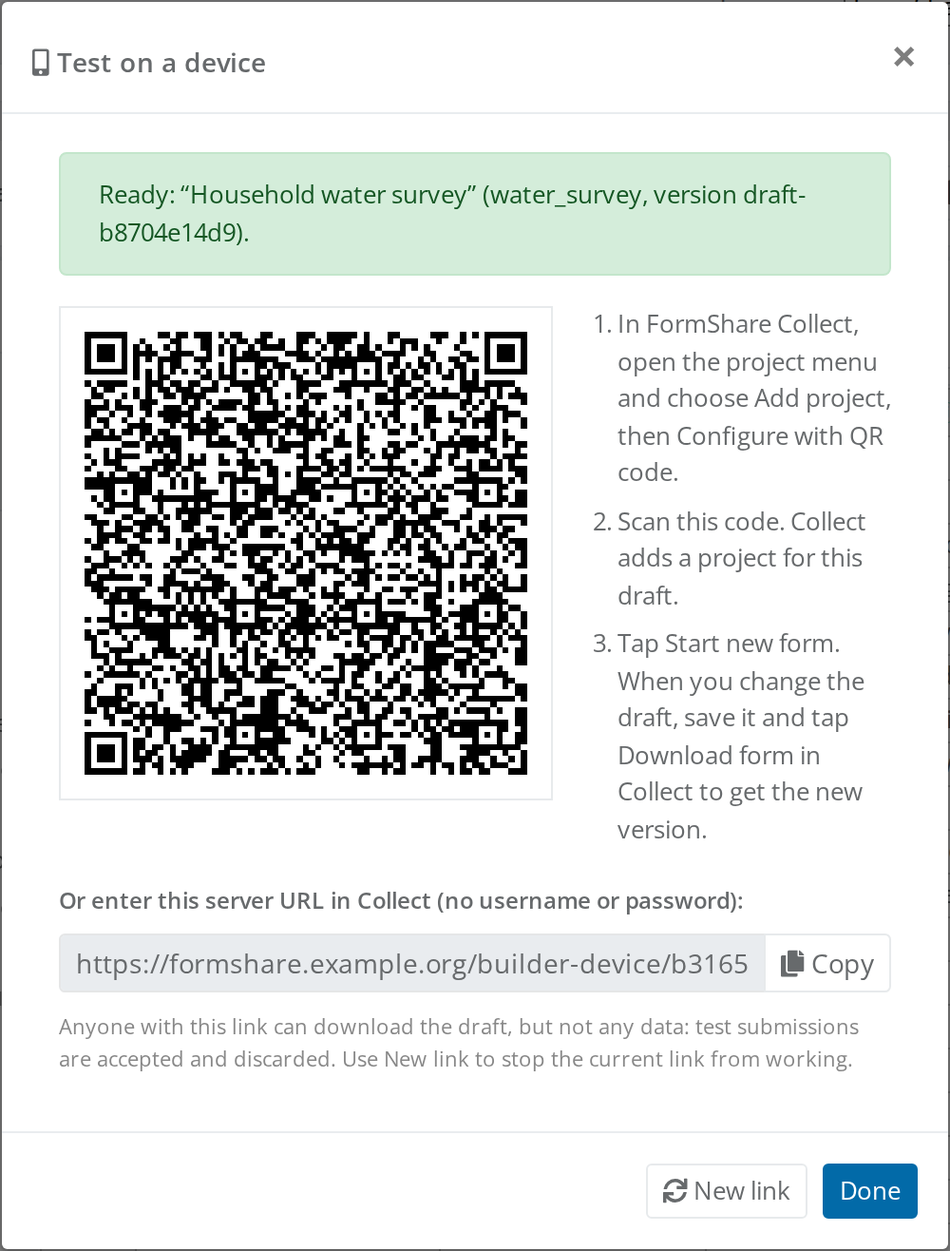
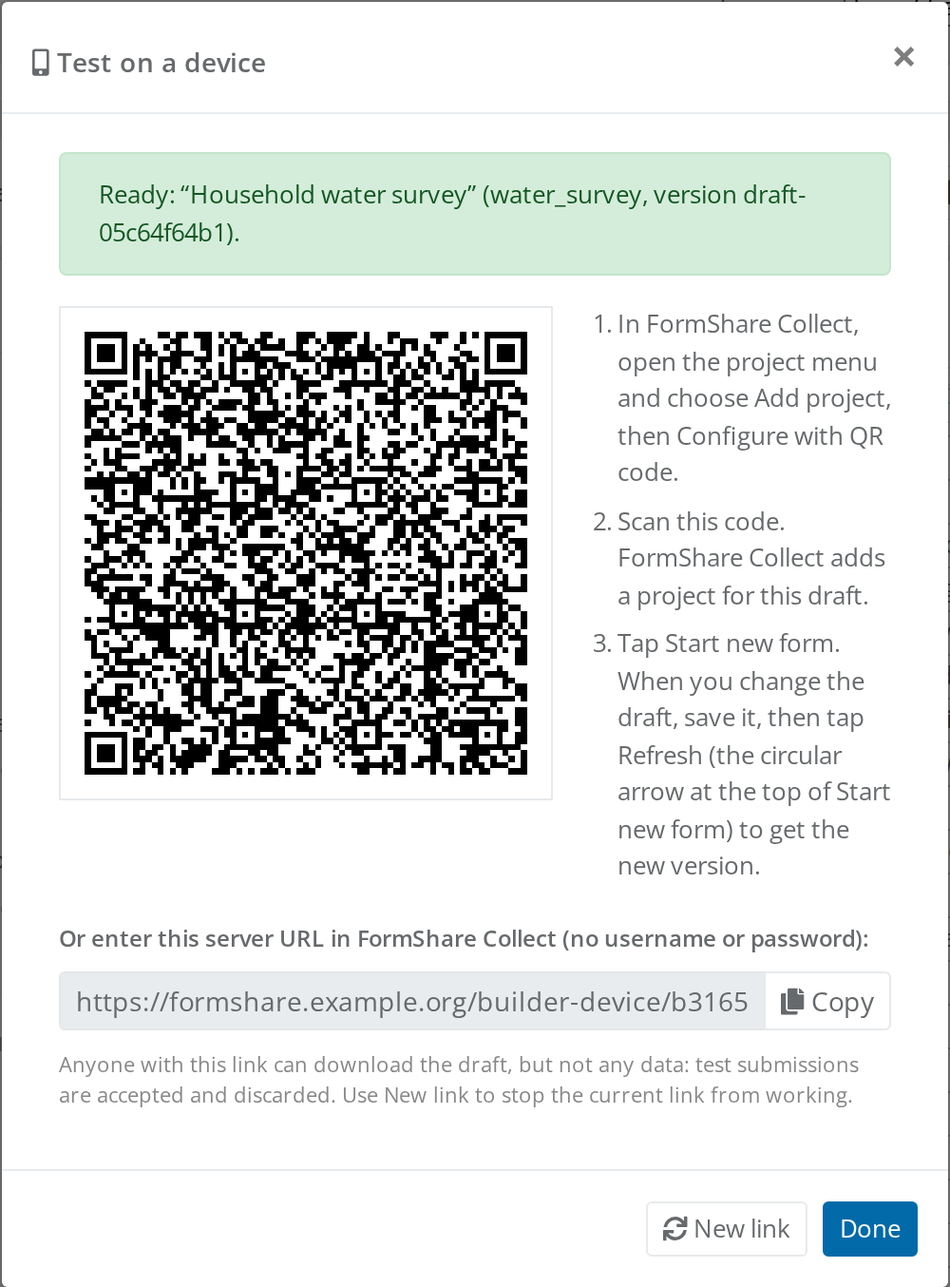
Form Builder: describe the fixed behaviour
The warnings that described bugs are gone, replaced by what Form Builder
does now: a required condition kept in the logic dialog, an imported file's
language columns editable in the grid, Import from a published form working
from the page header, a failed save stopping a test, a publish or a copy,
Build... only where AI is set up, times in FormShare's time zone, Refresh on
Start new form for a new version, and drafts publishing without the form
engine. Seven screenshots retaken to match.

diff --git a/docs/additional-functionality/form-builder/your-forms.md b/docs/additional-functionality/form-builder/your-forms.md
@@ -9,7 +9,7 @@ description: >-
 
 Form Builder keeps each form you build as a **draft**. Its first page lists your drafts under **Your forms**, says where each one is published, and starts new ones.
 
-<figure><img src="../../.gitbook/assets/fb-dashboard-drafts.png" alt="The Form Builder page with three drafts under Your forms: Water point inspection, never published; and two drafts named Household water survey, one published to Rural water monitoring as water_survey_v2 and the other as water_survey, each with Open, Rename, Save as and Delete. Import .xlsx and New form are at the top right."><figcaption><p>The draft saved last is at the top. Each row says where the draft is published.</p></figcaption></figure>
+<figure><img src="../../.gitbook/assets/fb-dashboard-drafts.png" alt="The Form Builder page with three drafts under Your forms: Water point inspection, never published; and two drafts named Household water survey, one published to Rural water monitoring as water_survey_v2 and the other as water_survey, each with Open, Rename, Save as and Delete. Import from a published form, Import .xlsx and New form are at the top right."><figcaption><p>The draft saved last is at the top. Each row says where the draft is published.</p></figcaption></figure>
 
 ## Drafts and forms
 
@@ -30,11 +30,11 @@ Click **Form Builder** in FormShare's left-hand menu. The page lists your drafts
 | Part | What it shows |
 | --- | --- |
 | The name | The draft's name. Click it, or **Open**, to work on the draft in the [editor](the-editor.md). |
-| Last edit | When the draft was last saved or renamed, in UTC. |
+| Last edit | When the draft was last saved or renamed, in the time zone FormShare shows its own times in. |
 | Publication | Where the draft is published. See below. |
 | Buttons | **Open**, **Rename**, **Save as** and **Delete**. |
 
-When you have no drafts, the page offers **Build from scratch** and **Import an existing .xlsx file** in place of the list, and **Import from a published form**, whose list of forms stays empty: see "[From a form already in a project](#from-a-form-already-in-a-project)".
+At the top of the page are **Import from a published form**, **Import .xlsx** and **New form**. When you have no drafts, the page offers **Build from scratch**, **Import an existing .xlsx file** and **Import from a published form** in place of the list.
 
 ### Where a draft is published
 
@@ -44,7 +44,7 @@ When you have no drafts, the page offers **Build from scratch** and **Import an 
 | **Published**, then the project, the form ID and the version | The draft was published once. The project and form ID link to the form in FormShare. |
 | **Published** with a number | The draft was published as that many forms. Click it for the list. |
 
-The list is titled with the draft's name. For each publication it gives the project (its name and code), the form ID (a link to the form in FormShare), the version, and the date and time it was published, in UTC.
+The list is titled with the draft's name. For each publication it gives the project (its name and code), the form ID (a link to the form in FormShare), the version, and the date and time it was published, in the same time zone as **Last edit**.
 
 A draft keeps one publication per project and form ID: publishing it again over the same form in the same project updates that line. The list is what Form Builder recorded when it published, and it isn't checked against the projects later. A form deleted in FormShare stays listed, and a form uploaded to FormShare directly never appears.
 
@@ -96,9 +96,7 @@ When the page refuses a file, it says why:
 | *Missing required sheet 'survey'.* and the sheets found | The file has no `survey` sheet. |
 | *The file parsed but did not match the spreadsheet schema. The first problem is below.* and a place such as `($.choices[3].name: name is required)` | A choice has no `name`, or no `list_name`. The place counts the choices from 0: `[3]` is the fourth. |
 
-{% hint style="warning" %}
-The grid doesn't show the language columns of an imported file, such as `label::English (en)`, nor some XLSForm columns it has no place for. They stay in the draft and go out again with Export and Publish. See "[Languages](the-editor.md#languages)".
-{% endhint %}
+The grid shows an imported file's language columns, such as `label::English (en)`, and the XLSForm columns it has no place of its own for, and you edit them there. See "[Languages](the-editor.md#languages)".
 
 {% hint style="info" %}
 **For server administrators:** the size limit is `formbuilder.max_import_bytes`, in bytes, 10485760 (10 MB) by default.
@@ -106,13 +104,11 @@ The grid doesn't show the language columns of an imported file, such as `label::
 
 ### From a form already in a project
 
-A form that is already in a project comes into Form Builder as its XLSForm. On the form's page in FormShare, **Download ODK form** downloads it; import that file with **Import .xlsx**. If the form reads CSV, XML or GeoJSON files, download them from the form's **Form files** tab and attach them in the draft's [files tab](form-files.md).
+A form that is already in a project comes into Form Builder as its XLSForm. Click **Import from a published form**, choose the **Project**, then the **Form** (each project lists its forms, the newest first, with their versions), and click **Import**. The new draft opens in the editor, named after the form's ID with *(imported)*. Any project you are a member of will do, even one where you can't publish.
+
+You can also do it by hand: on the form's page in FormShare, **Download ODK form** downloads the XLSForm, and **Import .xlsx** makes a draft from it. Either way, the form's CSV, XML or GeoJSON files don't come with it: download them from the form's **Form files** tab and attach them in the draft's [files tab](form-files.md).
 
 The draft keeps the form's ID and version. "[Publishing to a project](publishing.md)" explains what happens when you publish it back, and "[Walkthrough: add a question to a form that has data](walkthrough-new-version.md)" goes through a new version of a form with a repository.
-
-{% hint style="warning" %}
-When you have no drafts, the page also shows **Import from a published form**. Its dialog lists your projects, but its list of forms stays empty, so nothing can be imported through it. Download the form as above instead.
-{% endhint %}
 
 ### Save as
 
@@ -145,7 +141,7 @@ Renaming changes the draft's name in this list, and the name of the file that [E
 An account can hold 50 drafts, unless your administrator set another limit. At the limit, a banner reads *You have reached the maximum number of in-flight forms (50). Delete old drafts before creating new ones.*, and New form, Import .xlsx and Save as are refused until you delete a draft.
 
 {% hint style="info" %}
-**For server administrators:** the limit is `formbuilder.max_sessions_per_user`, 50 by default.
+**For server administrators:** the limit is `formbuilder.max_sessions_per_user`, 50 by default; 0 sets no limit.
 {% endhint %}
 
 ## What's next

diff --git a/docs/additional-functionality/form-builder/logic.md b/docs/additional-functionality/form-builder/logic.md
@@ -42,12 +42,12 @@ Each field writes one column of the question's row:
 | Message to show if the answer is not valid | `constraint_message` | What FormShare Collect says when it doesn't accept an answer. Left empty, it shows a message of its own. |
 | Calculate the value of this question | `calculation` | The value FormShare Collect works out for a calculate, from other answers. A calculate isn't shown; other questions use its value as `${name}`. |
 
-Under each expression field are **Build…** and **Test**, and a line with the expression in plain English.
+Under each expression field are **Build…** and **Test**, and a line with the expression in plain English. **Build…** shows only when the server has Generate set up (see "[Build… and Generate](#build-and-generate)").
 
 **Save** writes the fields to the question's row and closes the dialog. **Close**, or ×, closes it and keeps nothing: nothing reaches the grid before **Save**.
 
-{% hint style="warning" %}
-**Required is a switch.** It shows on for `yes` (or `true`, or `1`), and **Save** writes `yes` or empties the cell. A `required` cell that holds an expression, such as `${age} > 18`, or `true()`, opens with the switch off, and **Save** empties it. Change such a cell in the grid instead.
+{% hint style="info" %}
+**Required is a switch.** It shows on for `yes`, `true`, `true()` or `1`, and **Save** writes `yes` or empties the cell. A value written another way, such as `TRUE`, stays as you typed it while you leave the switch on. A `required` cell that holds a condition, such as `${age} > 18`, shows under the switch as *Required only when this is true:* with the condition, and the switch can't be turned off: **Save** keeps the condition. To change it, edit the `required` column in the grid.
 {% endhint %}
 
 The dialog covers these five columns. The grid has the other logic columns, such as `choice_filter`, `default`, `repeat_count` and `read_only`: see "[The editor](the-editor.md)".
@@ -109,7 +109,7 @@ Brackets and quotes close themselves, and Backspace between an empty pair delete
 
 ### The plain-English line
 
-Under each field, Form Builder writes the expression in words, with the questions' labels in place of their names: `${age} > 18` reads *Age is greater than 18*, and `selected(${symptoms}, 'fever')` reads *Symptoms includes 'fever'*. It reads the common shapes: a question compared with a value, a question between two values, an option chosen or not, a count, an `if`, and these joined by `and` or `or`. For other expressions, among them most that start with `.`, and for long ones, the line stays empty.
+Under each field, Form Builder writes the expression in words, with the questions' labels in place of their names: `${age} > 18` reads *Age is greater than 18*, and `selected(${symptoms}, 'fever')` reads *Symptoms includes 'fever'*. In a translated form the labels are the default language's (the settings sheet's `default_language`), or the first language's when it names none. It reads the common shapes: a question compared with a value, a question between two values, an option chosen or not, a count, an `if`, and these joined by `and` or `or`. For other expressions, among them most that start with `.`, and for long ones, the line stays empty.
 
 The line is the quickest way to see that an expression says what you meant, above all one the AI wrote.
 
@@ -142,7 +142,7 @@ When no expression comes back, the reason shows in red next to **Generate**, and
 | *That looks like a question, not a rule for this field. Describe when the question should show, or what to compute.* | It reads as a question, such as *what is the age?*, with no rule in it. |
 | *A show/validate rule needs a true/false condition…* | For relevance or a constraint, it names a value, such as a total or a count, but no condition. |
 | An explanation from the AI | The rule can't be written for this form: a question it names doesn't exist, an option isn't in the list, the comparison doesn't fit the question's type, or the description isn't a rule at all. |
-| *AI features are disabled.* | The server administrator hasn't turned Generate on. |
+| *AI features are disabled.*, or *AI isn't set up on this server…* | Generate was turned off, or has no API key, since you opened the page. Reload it: **Build…** doesn't show while Generate can't answer. |
 | A message from FormShare's SaaS plugin, such as *Your organization cannot use the AI features right now.* | Your organization can't use the AI at the moment, for example because it has no credits left. |
 | *rate limit exceeded…*, with the time to wait | You have pressed Generate too often this hour, or today. |
 | *The request failed. Please try again.* | The server couldn't be reached, or its answer couldn't be read. |
@@ -167,7 +167,7 @@ Who pays for Generate depends on whether your FormShare runs FormShare's SaaS pl
 With the SaaS plugin, Form Builder reports how each press ended (an expression delivered, a rule the AI couldn't write for this form, or a failure) and the SaaS plugin sets the price of each. A press that cost no credits shows no cost. A press you cancel while it is generating still runs on the server, and is reported as if you had kept its expression. A description that Form Builder's own check turns down (too short, a question, a value with no condition) never reaches the AI and isn't reported, but it still counts toward the hourly and daily limits.
 
 {% hint style="info" %}
-**For server administrators:** Generate needs `formbuilder.ai.enabled = true` and an Anthropic API key in `formbuilder.ai.api_key`, in FormShare's `.ini`. With Generate on and no key, it doesn't say the key is missing: it answers with the fixed expressions its tests use, so set the key before you turn it on. Other settings:
+**For server administrators:** Generate needs `formbuilder.ai.enabled = true` and an Anthropic API key in `formbuilder.ai.api_key`, in FormShare's `.ini`. Without both, the editor shows no **Build…**, Generate answers *AI isn't set up on this server: formbuilder.ai.enabled is true but formbuilder.ai.api_key is empty.*, and Form Builder's health page, `/user/<your user>/builder/health`, reports the AI as `unconfigured`. Other settings:
 
 * `formbuilder.ai.rate_limit.hour` and `formbuilder.ai.rate_limit.day`, 60 and 200 by default, limit each user's presses. Each server process counts on its own, so with several workers a user can go beyond them.
 * `formbuilder.ai.usage_log` names a file that gets one line for each request sent to the AI, with its tokens and cost. It records the description's length, not its text.
@@ -233,6 +233,7 @@ The Question panel follows the row selected in the survey grid. Under **Logic**,
 | Calculated as | The calculation |
 | Choices shown when | The choice filter |
 | Required | Whether, or when, an answer is required |
+| Read-only | Whether, or when, the answer can't be changed (`read_only`) |
 | Number of repeats | The repeat count |
 | Default answer | The default |
 

diff --git a/docs/additional-functionality/form-builder/the-editor.md b/docs/additional-functionality/form-builder/the-editor.md
@@ -147,7 +147,7 @@ A choice with no `list_name` shows on its own, after the lists. Give it one and 
 A problem on a choice inside a closed list marks the list's number, its tooltip beginning *In this list:*, and **Go to** opens the list.
 
 {% hint style="warning" %}
-A choice needs its `list_name` and its `name` before the draft can be saved. While one lacks either, every save fails with a message that ends with the place, such as `($.choices[3].name)`: the choice numbered 4 has no name. That includes an empty row you insert in a list: fill it in or delete it.
+A choice needs its `list_name` and its `name` before the draft can be saved. While one lacks either, every save fails with a message that ends with the place, such as `($.choices[3].name)`: the choice numbered 4 has no name. That includes an empty row you insert in a list: fill it in or delete it. Until then, **Test on device**, **Publish to project...** and **Save as** stop with the same message.
 {% endhint %}
 
 ## The settings sheet
@@ -213,9 +213,7 @@ A language column you added and never filled in stays in the file that Export do
 
 How FormShare stores the labels of a form in several languages is in "[Forms with multiple languages](../../fundamentals/repositories/forms-with-multiple-languages.md)".
 
-{% hint style="warning" %}
-A form imported from an `.xlsx` file keeps its language columns (`label::English (en)`, `hint::Español (es)` and the like) and the XLSForm columns the grid has no place for, such as `guidance_hint`, `required_message`, or `submission_url` on the settings sheet. They stay in the draft and go out again with Export and Publish, but the grid doesn't show them, so you can't edit them here. To change them, export the draft, edit them in the file and import it as a new draft.
-{% endhint %}
+A form imported from an `.xlsx` file keeps its language columns (`label::English (en)`, `hint::Español (es)` and the like) and the XLSForm columns the grid has no place of its own for, such as `guidance_hint`, `required_message`, or `submission_url` on the settings sheet. The grid shows them like the columns you add: a language column right after the column it translates, the others after the grid's own. You edit them in the grid, and they go out with Export and Publish.
 
 ## The Structure panel
 
@@ -296,7 +294,7 @@ The editor saves the draft to the server:
 | --- | --- |
 | When you ask | **Save**, or Ctrl+S |
 | By itself | Once you have made no change for 30 seconds |
-| Before a test or a publish | **Test on device** and **Publish to project...** save first. If that save fails, they use the draft as last saved. |
+| Before a test, a publish or a copy | **Test on device**, **Publish to project...** and **Save as** save first. If that save fails, they stop and show why, rather than go on with the draft as last saved. |
 
 **Export** doesn't save first: it downloads the draft as last saved.
 
@@ -304,7 +302,7 @@ If you leave the page with unsaved changes, your browser asks before it goes.
 
 ### The copy in your browser
 
-Between saves, the editor keeps a copy of the draft in your browser, written a moment after each change and cleared by each save. When the page closes before its changes are saved, the next time you open the draft in that browser the editor offers them back. Accept, and they return and are saved 30 seconds later; decline, and the copy is deleted. The copy lives in that browser only: another browser, or another computer, doesn't have it.
+Between saves, the editor keeps a copy of the draft in your browser, written a moment after each change and cleared by each save. When the page closes before its changes are saved, the next time you open the draft in that browser the editor offers them back: **Restore unsaved changes?**, *This browser kept changes to this form that weren't saved. Restore them, or discard them and keep the saved version.* **Restore** brings them back, and they are saved 30 seconds later; **Discard** deletes the copy. The copy lives in that browser only: another browser, or another computer, doesn't have it.
 
 ### Undo and redo
 
@@ -326,6 +324,8 @@ When the draft is also open in another tab of the same browser, the editor warns
 | *We couldn't save your form because of a structural issue.*, ending with a place such as `($.choices[3].name)` | A choice has no `name` or no `list_name`, here the choice numbered 4. Fill it in or delete the row. See "[Choice lists](#choice-lists)". |
 | *This form is larger than the configured size limit.* | The draft is over the server's limit for one draft, 5 MB unless your administrator changed it. |
 | *Save failed. Please try again.* | The server couldn't be reached. Your changes stay in the browser's copy. |
+
+While saves fail, **Test on device**, **Publish to project...** and **Save as** stop with the same reason, so that nothing goes on with an older version of the draft.
 
 {% hint style="info" %}
 **For server administrators:** the wait before saving by itself is `formbuilder.autosave_debounce_seconds`, 30 by default, and the size limit of one draft `formbuilder.max_session_json_bytes`, in bytes, 5242880 (5 MB) by default.

diff --git a/docs/additional-functionality/form-builder/publishing.md b/docs/additional-functionality/form-builder/publishing.md
@@ -9,7 +9,7 @@ description: >-
 
 Publishing turns a draft into a form of a FormShare project. Form Builder does it through FormShare's own pages, as if you had uploaded the `.xlsx` yourself, so FormShare checks the form as it always does and every rule of its forms applies. Open the dialog with **Publish to project...** in the editor's toolbar.
 
-<figure><img src="../../.gitbook/assets/fb-publish-precheck.png" alt="The Publish to FormShare project dialog: the form ID water_survey, version 20261122 and name Household water survey from the Settings sheet; the project Rural water monitoring; a message saying the project has no form with that ID and publishing adds it; hh_id chosen as the primary key; 150 expected submissions; and the precheck saying No errors, with the database table the form will get."><figcaption><p>A new form, checked and ready to publish.</p></figcaption></figure>
+<figure><img src="../../.gitbook/assets/fb-publish-precheck.png" alt="The Publish to FormShare project dialog: the form ID water_survey, version 20261122 and name Household water survey from the Settings sheet; the project Rural water monitoring; a message saying the project has no form with that ID and publishing adds it; hh_id chosen as the primary key; 150 expected submissions; and the precheck saying No errors, with the database table the form will get, maintable."><figcaption><p>A new form, checked and ready to publish.</p></figcaption></figure>
 
 ## Who can publish
 
@@ -22,7 +22,7 @@ The **Project** list offers the projects you own or administer. You need two thi
 
 The **Form ID**, **Version** and **Name** at the top come from the Settings sheet (`form_id`, `version` and `form_title`). The dialog does not change them: to publish under another ID or version, change the Settings sheet, or use **Save as** on the dashboard. FormShare accepts letters, numbers and `_` in a form ID.
 
-Publishing saves the draft first. If that save fails, the editor says why and the dialog publishes the draft as last saved, so fix what stops the save before you publish ("[When a save fails](the-editor.md#when-a-save-fails)").
+Publishing saves the draft first: the dialog saves it when it opens, and again before the precheck and before **Publish**. If a save fails, the dialog says *The draft couldn't be saved, so it can't be checked or published:* with the reason, and neither the precheck nor **Publish** goes ahead until the draft can be saved ("[When a save fails](the-editor.md#when-a-save-fails)").
 
 ## What publishing does
 
@@ -84,7 +84,7 @@ A new form also asks **How many submissions do you expect?** In the project's li
 | --- | --- |
 | "No errors." or the number of errors and warnings | The checks the editor runs (see "[Checking a form](checking-a-form.md)"). Errors stop the publish; warnings do not. |
 | "The form's logic goes round in a circle: fix it before publishing." | A calculation, condition or check depends on itself through other questions. This stops the publish. |
-| **Database tables for this form** | The tables FormShare will create for the form's data: one for the form, one for each repeat and one for each select multiple. |
+| **Database tables for this form** | The tables FormShare will create for the form's data: `maintable` for the form, one for each repeat, named after it, and one for each select multiple, such as `maintable_msel_water_uses`. |
 | **Changes from** the form (version) | For a replacement or a new version: how many questions were added, changed, renamed or removed, and how many choice lists changed. |
 | Compatibility with the form's submissions | For a new version: whether the changes keep the submissions already in the repository usable. Problems are listed, but do not stop the upload: FormShare checks them again when you merge. |
 

diff --git a/docs/additional-functionality/form-builder/testing-on-a-device.md b/docs/additional-functionality/form-builder/testing-on-a-device.md
@@ -16,7 +16,7 @@ All you need is FormShare Collect on an Android phone: see "[Setting up FormShar
 
 **Test on device** is in the editor's toolbar. It opens the **Test on a device** dialog:
 
-<figure><img src="../../.gitbook/assets/fb-device.png" alt="The Test on a device dialog: the green line Ready: Household water survey (water_survey, version draft-b8704e14d9); the QR code beside three steps to add the project in FormShare Collect and start the form; the server URL, starting with the FormShare address, and a Copy button; the note on what the link gives access to; and the New link and Done buttons."><figcaption><p>The version that starts with draft- changes with every saved change.</p></figcaption></figure>
+<figure><img src="../../.gitbook/assets/fb-device.png" alt="The Test on a device dialog: the green line Ready: Household water survey (water_survey, version draft-05c64f64b1); the QR code beside three steps to add the project in FormShare Collect, start the form and get a new version with Refresh; the server URL, starting with the FormShare address, and a Copy button; the note on what the link gives access to; and the New link and Done buttons."><figcaption><p>The version that starts with draft- changes with every saved change.</p></figcaption></figure>
 
 | Part | What it shows |
 | --- | --- |
@@ -30,7 +30,7 @@ All you need is FormShare Collect on an Android phone: see "[Setting up FormShar
 
 ### What is saved first
 
-Opening the dialog saves the draft first, as the editor holds it, errors included. The phone always downloads the draft as it was last saved.
+Opening the dialog saves the draft first, as the editor holds it, errors included: the phone downloads the draft as it was last saved. When that save fails, the dialog says *The draft couldn't be saved, so the phone would get an older version:* with the reason, and shows no code until the draft can be saved (see "[When a save fails](the-editor.md#when-a-save-fails)").
 
 The dialog checks the draft when it opens, not while it stays open. After you change the draft, close the dialog and open it again to see whether the new version is ready.
 
@@ -93,7 +93,7 @@ Every saved change is a new version for FormShare Collect, which replaces the fo
 
 ## When the draft has errors
 
-When pyxform or ODK Validate refuses the saved draft, the status line turns yellow: *The draft has errors, so Collect won't see a form yet. Fix the errors in the Problems panel, then download again.*, followed by the first error as pyxform words it.
+When pyxform or ODK Validate refuses the saved draft, the status line turns yellow: *The draft has errors, so FormShare Collect won't see a form yet. Fix the errors in the Problems panel, then tap Refresh in Start new form.*, with the first error as pyxform words it on the line below.
 
 While the draft has errors, the link offers no form. A phone that doesn't have the draft yet finds nothing in **Start new form**. A phone that has it takes it off **Start new form** at its next check, since the project keeps its forms exactly as the link serves them; forms already filled in stay. Fix the errors, open the dialog again to see *Ready*, then tap **Refresh** on the phone.
 

diff --git a/docs/additional-functionality/form-builder/checking-a-form.md b/docs/additional-functionality/form-builder/checking-a-form.md
@@ -54,7 +54,7 @@ When pyxform stops at a row the first check has already flagged with an error, t
 
 ### The form engine: KotlinRosa
 
-The third check loads the compiled form into KotlinRosa, a Kotlin port of JavaRosa, the form engine inside FormShare Collect. It reports a form the engine can't load, and it reads every expression in the survey's `relevant`, `constraint`, `calculation`, `choice_filter` and `required` cells, reporting one it can't parse on its cell.
+The third check loads the compiled form into KotlinRosa, a Kotlin port of JavaRosa, the form engine inside FormShare Collect. It reports a form the engine can't load, and it reads every expression in the survey's `relevant`, `constraint`, `calculation`, `choice_filter`, `required` and `read_only` cells, reporting one it can't parse on its cell.
 
 It runs only once the second check has compiled the form. It also works out which questions depend on which, from their logic: the Question panel's **Depends on** and **Used by**, the related questions in the Structure outline, and the logic map all come from it. While an error stops the second check, the third doesn't run, and those links stay empty until you fix the error.
 
@@ -77,7 +77,7 @@ They check the form as the editor holds it, with the changes you haven't saved y
 If more than 30 checks are asked for within a minute, the editor shows *Validating too quickly; retrying in a moment.* and checks again shortly afterwards.
 
 {% hint style="info" %}
-**For server administrators:** the limit is `formbuilder.validate.rate_limit_per_minute`, 30 by default, per user. The second and third checks need Java on the server: ODK Validate comes with pyxform and needs Java 8 or later on the path, and KotlinRosa needs its jar named in `formbuilder.kotlinrosa.jar_path`. Without them, every form shows the same error, *Form validation failed because Java (8+ required) could not be found* in the XLSForm category, or *Unknown error: JVM is not running* in the Runtime category, and no draft can be published.
+**For server administrators:** the limit is `formbuilder.validate.rate_limit_per_minute`, 30 by default, per user. The second and third checks need Java on the server. ODK Validate comes with pyxform and needs Java 8 or later on the path: without it, every form shows the error *Form validation failed because Java (8+ required) could not be found* in the XLSForm category, and no draft can be published. KotlinRosa needs its jar named in `formbuilder.kotlinrosa.jar_path`: while its engine isn't running, every form shows the information *ODK's form engine (KotlinRosa) isn't running on the server, so the runtime check was skipped. pyxform and ODK Validate still checked the form.* Drafts still publish then, without the third check and without the links between questions it works out.
 {% endhint %}
 
 ## The Problems panel

diff --git a/docs/additional-functionality/form-builder/walkthrough.md b/docs/additional-functionality/form-builder/walkthrough.md
@@ -111,7 +111,7 @@ Click the `water_source_other` row. The **Question** panel on the right shows it
 {% step %}
 ## Try it on a phone
 
-Click **Test on device**. Form Builder saves the draft and shows a QR code. In FormShare Collect, open the project menu, choose **Add project**, then **Configure with QR code**, and scan it. Collect adds a project for the draft: tap **Start new form** and fill in a household.
+Click **Test on device**. Form Builder saves the draft and shows a QR code. In FormShare Collect, open the project menu, choose **Add project**, then **Configure with QR code**, and scan it. FormShare Collect adds a project for the draft: tap **Start new form** and fill in a household.
 
 <figure><img src="../../.gitbook/assets/fb-device.png" alt="The Test on a device dialog: Ready, the draft Household water survey; a QR code; the three steps to add it in FormShare Collect; the server URL to type instead; and the New link and Done buttons."><figcaption><p>The submissions you send from here are accepted and thrown away.</p></figcaption></figure>
 
@@ -130,7 +130,7 @@ Click **Publish to project...** and choose the project. Because "Rural water mon
 
 The primary key is the answer that is different in every submission; FormShare uses it to refuse duplicates, and it cannot be changed once the form has a repository. Click **Run precheck**.
 
-<figure><img src="../../.gitbook/assets/fb-publish-precheck.png" alt="The Publish to FormShare project dialog for water_survey version 20261122: the project Rural water monitoring, the primary key hh_id, 150 expected submissions, and the precheck saying No errors with the table the form will get."><figcaption><p>Publish is off until a precheck passes and a primary key is chosen.</p></figcaption></figure>
+<figure><img src="../../.gitbook/assets/fb-publish-precheck.png" alt="The Publish to FormShare project dialog for water_survey version 20261122: the project Rural water monitoring, the primary key hh_id, 150 expected submissions, and the precheck saying No errors with the table the form will get, maintable."><figcaption><p>Publish is off until a precheck passes and a primary key is chosen.</p></figcaption></figure>
 
 Click **Publish**. The dialog then shows only the result, with a link to the form.
 

diff --git a/docs/additional-functionality/form-builder/README.md b/docs/additional-functionality/form-builder/README.md
@@ -39,10 +39,10 @@ A draft is not a FormShare form. It stays in Form Builder until you publish it, 
 
 **Form Builder** is in FormShare's navigation, on the left. It opens the page of your drafts, where you start a new form or import an `.xlsx`.
 
-<figure><img src="../../.gitbook/assets/fb-dashboard-empty.png" alt="The Form Builder page of a user with no drafts: You have no forms in progress, with the buttons Build from scratch, Import an existing .xlsx file and Import from a published form, and New form and Import .xlsx at the top."><figcaption><p>The page before the first draft.</p></figcaption></figure>
+<figure><img src="../../.gitbook/assets/fb-dashboard-empty.png" alt="The Form Builder page of a user with no drafts: You have no forms in progress, with the buttons Build from scratch, Import an existing .xlsx file and Import from a published form, and Import from a published form, Import .xlsx and New form at the top."><figcaption><p>The page before the first draft.</p></figcaption></figure>
 
 {% hint style="info" %}
-**For server administrators:** Form Builder is a QLands plugin, not part of FormShare's open source code. Its checks need Java on the server: pyxform runs ODK Validate, and the third check runs ODK's form engine (KotlinRosa), whose jar is set in `formbuilder.kotlinrosa.jar_path`. If the engine cannot start, the third check reports an error on every form, and the publish dialog's precheck counts it, so publishing stays off until the engine runs. **Generate**, the AI help in the logic dialog, needs its own settings; "[Adding logic](logic.md)" lists them.
+**For server administrators:** Form Builder is a QLands plugin, not part of FormShare's open source code. Its checks need Java on the server: pyxform runs ODK Validate, and the third check runs ODK's form engine (KotlinRosa), whose jar is set in `formbuilder.kotlinrosa.jar_path`. If the engine cannot start, the third check is skipped with a note in the Problems panel, and drafts still publish once the other two checks pass. **Generate**, the AI help in the logic dialog, needs its own settings; "[Adding logic](logic.md)" lists them.
 {% endhint %}
 
 ## What's next

diff --git a/docs/additional-functionality/form-builder/form-files.md b/docs/additional-functionality/form-builder/form-files.md
@@ -57,7 +57,7 @@ When a question's type names a file the draft doesn't have, a yellow box at the 
 
 | Column | What it shows |
 | --- | --- |
-| File | The name, the size, and when the file was uploaded, in UTC |
+| File | The name, the size, and when the file was uploaded, in the time zone FormShare shows its own times in |
 | Contents | How many rows, items or features, and how many columns; the first six column names; notes on what FormShare Collect would trip on, or why the file can't be read (see "[The checks](#the-checks)") |
 | Used by | The questions whose type names the file, or *No question uses it* |
 
